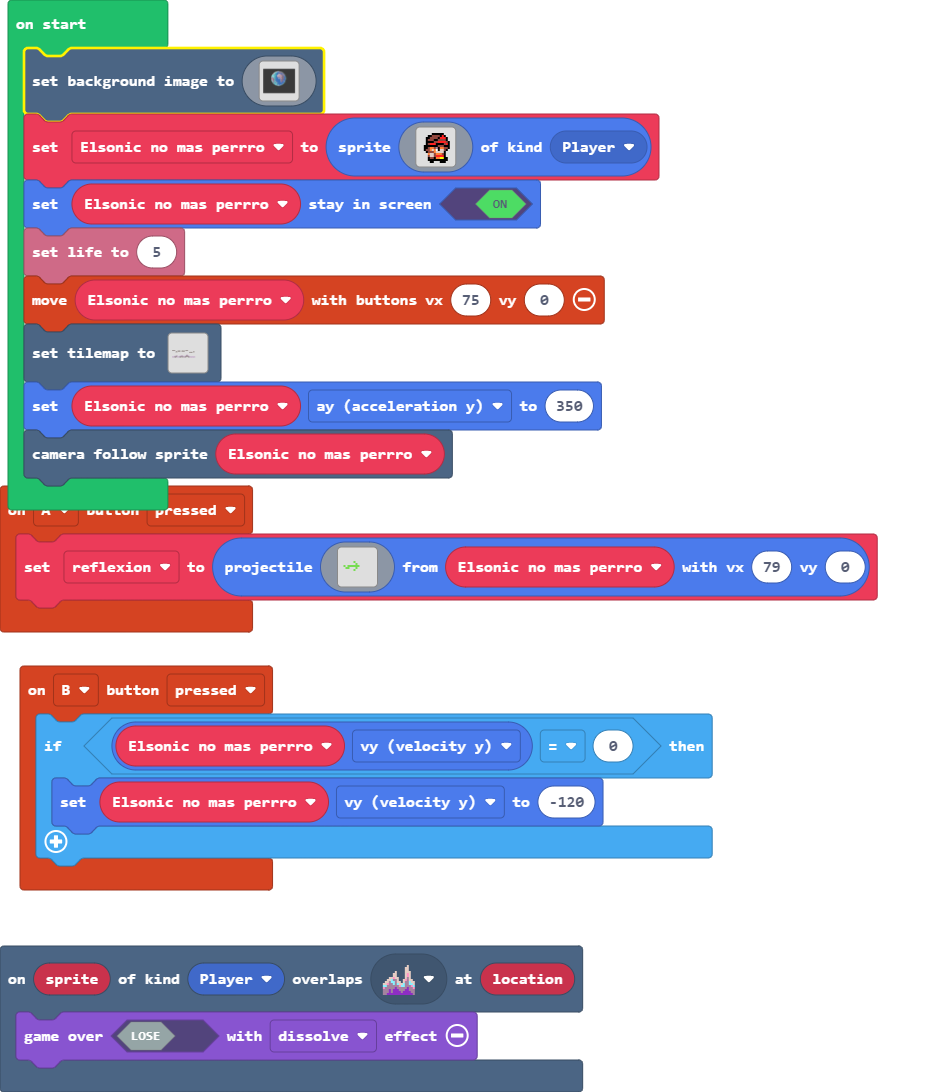
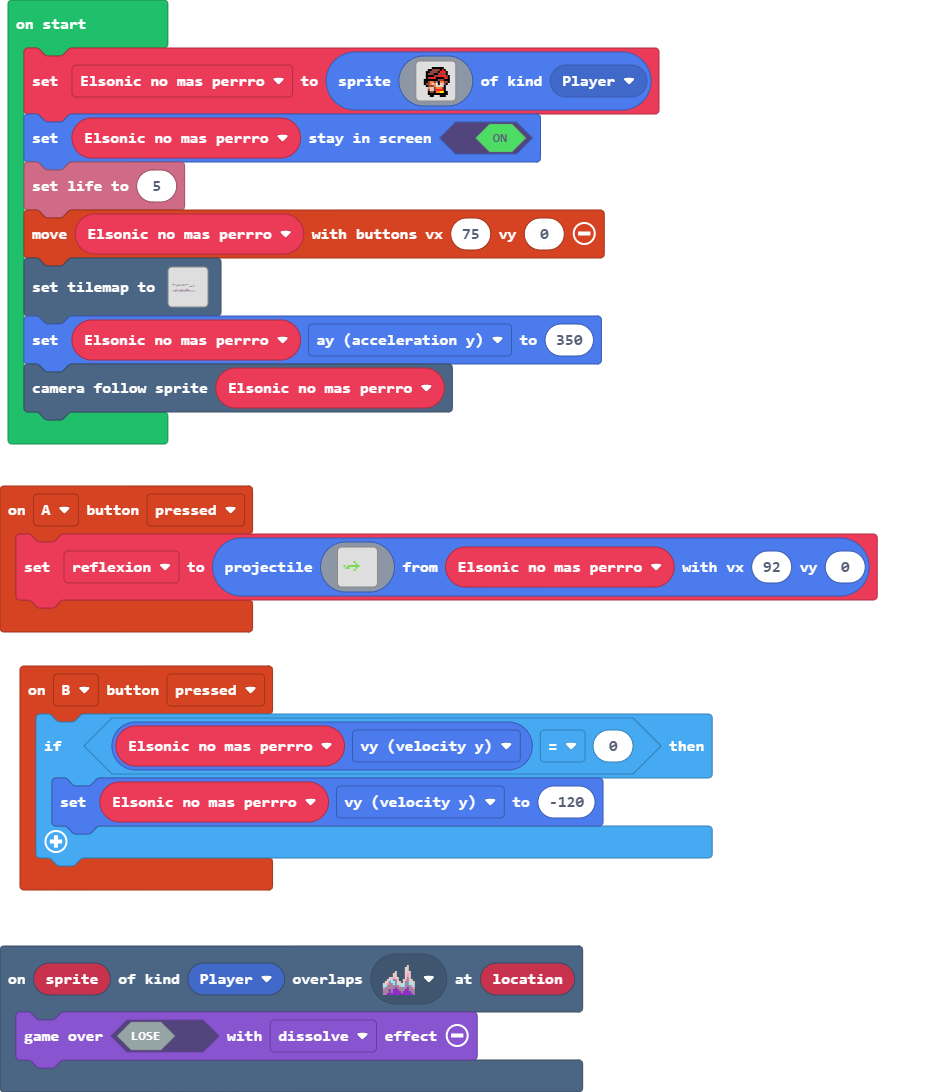
rapidez de la bala

Changed region(s): [[0.0, 0.0311, 0.718, 0.467]]

diff --git a/main.ts b/main.ts
@@ -24,7 +24,7 @@ controller.A.onEvent(ControllerButtonEvent.Pressed, function () {
         . . . . . . . . . . . . . . . . 
         . . . . . . . . . . . . . . . . 
         . . . . . . . . . . . . . . . . 
-        `, Elsonic_no_mas_perrro, 79, 0)
+        `, Elsonic_no_mas_perrro, 92, 0)
 })
 let reflexion: Sprite = null
 let Elsonic_no_mas_perrro: Sprite = null
